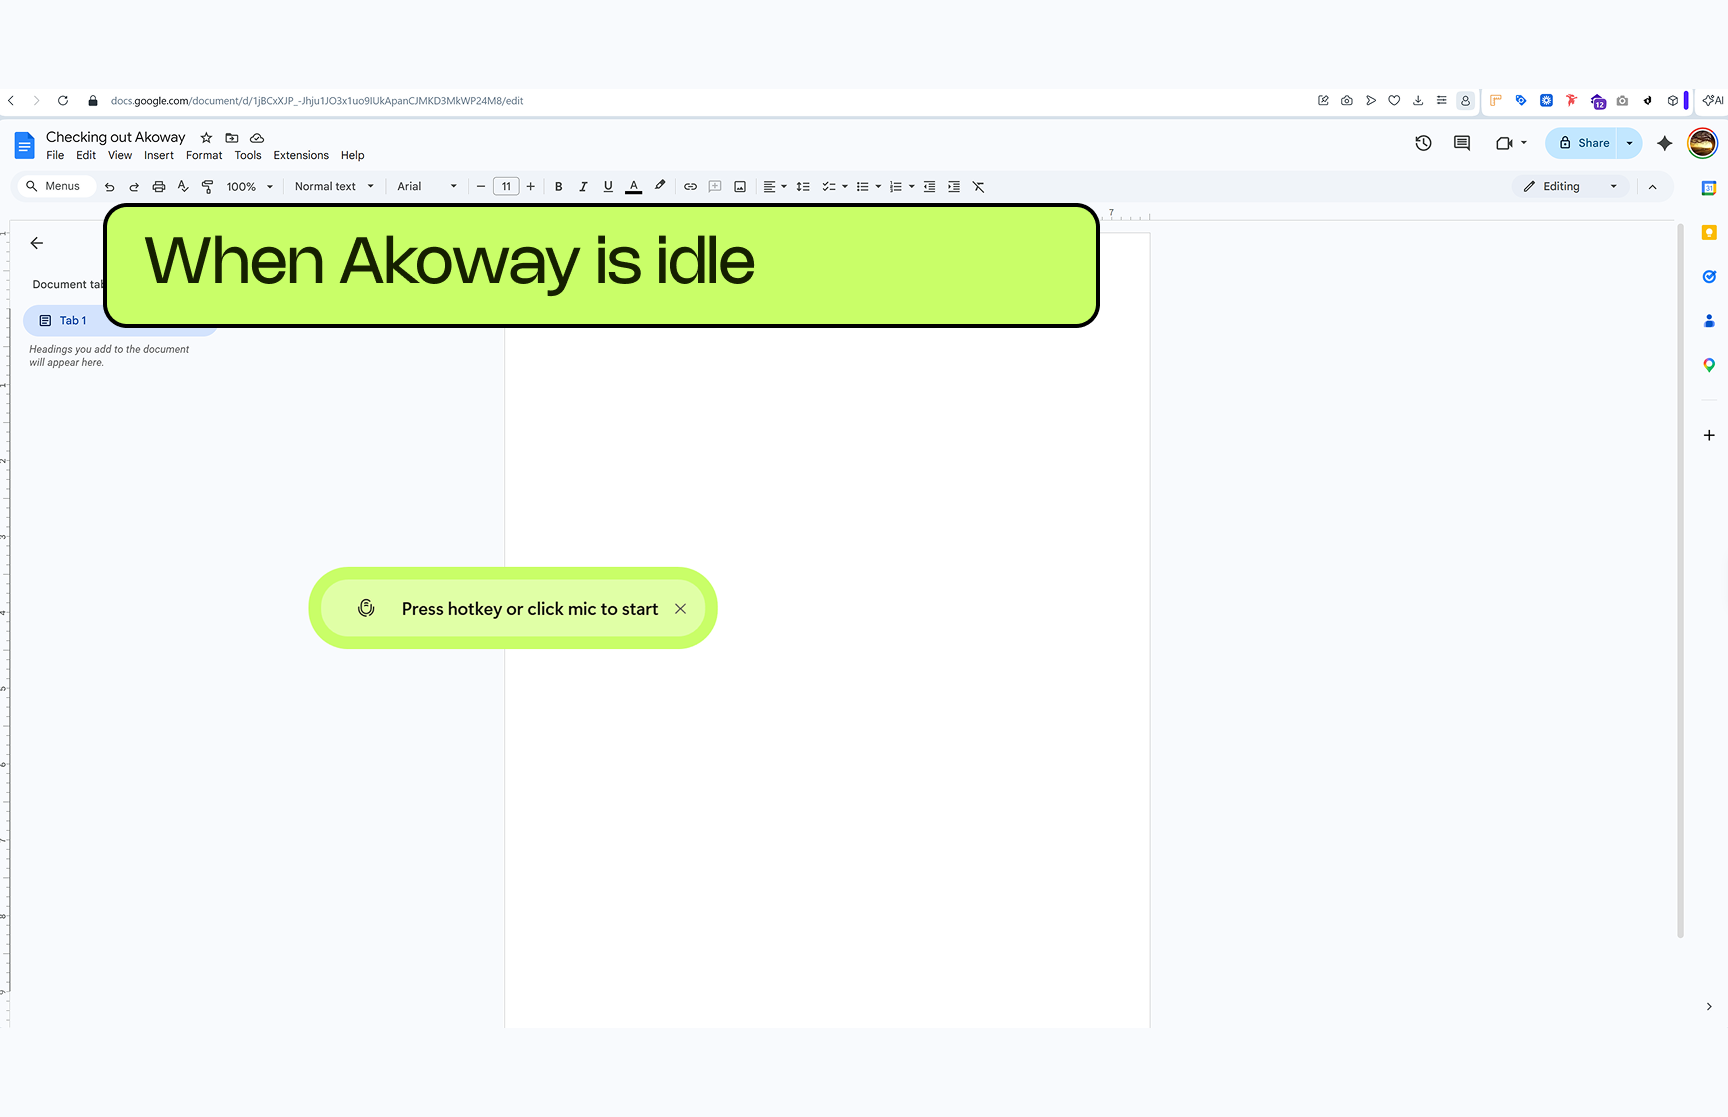
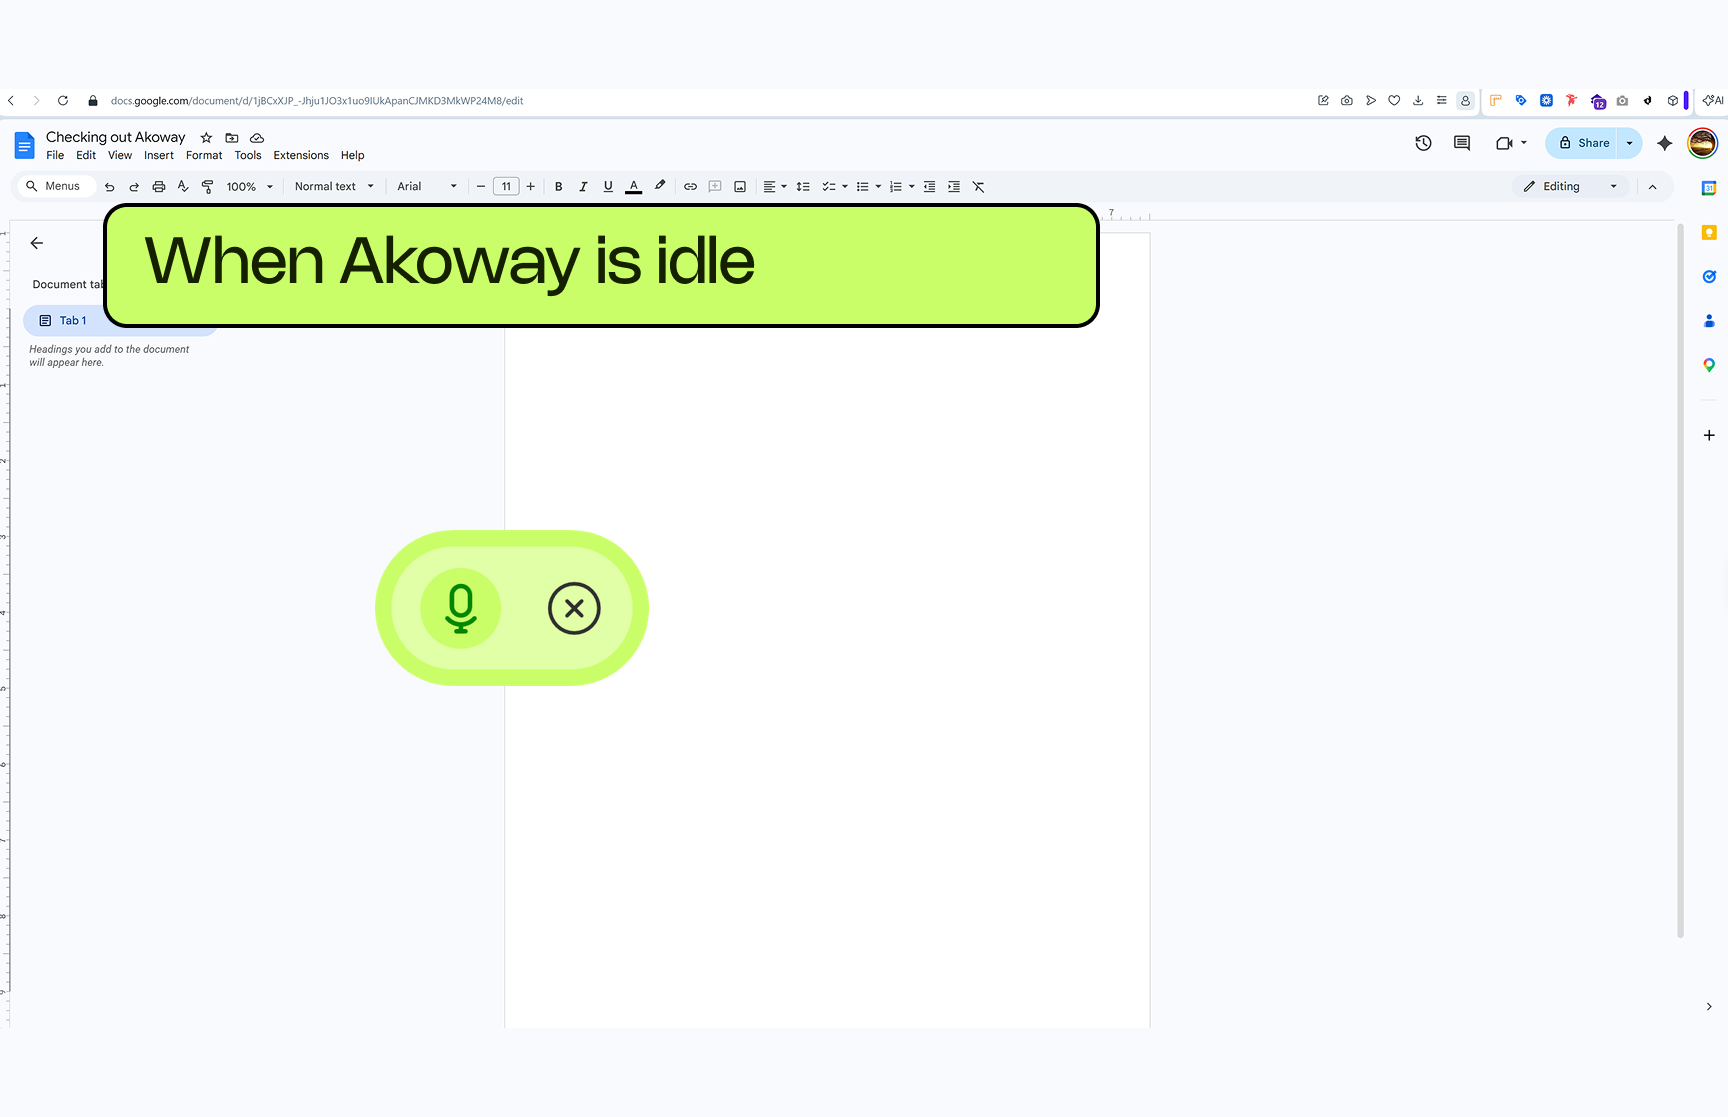
Show the new pill and Bark 3.0 Clean (Akoway 2.1)
Animated hero pill drawn from the app's overlay paths, refreshed screenshots,
and a two-model table with Bark 3.0 Clean.

Changed region(s): [[0.1562, 0.4566, 0.4375, 0.6392]]

diff --git a/index.html b/index.html
@@ -4,7 +4,7 @@
   <meta charset="UTF-8" />
   <meta name="viewport" content="width=device-width, initial-scale=1.0" />
   <title>Akoway — Offline Voice Dictation for Windows</title>
-  <meta name="description" content="Dictate text into any Windows app, offline, privately. Powered by Underdog Bark 3.0 Pro. Free and open source." />
+  <meta name="description" content="Dictate text into any Windows app, offline, privately. Powered by Underdog Bark 3.0 Pro and Bark 3.0 Clean. Free and open source." />
 
   <!-- Favicon -->
   <link rel="icon" type="image/x-icon" href="akoway.ico" />
@@ -13,7 +13,7 @@
   <!-- Fonts -->
   <link rel="preconnect" href="https://fonts.googleapis.com" />
   <link rel="preconnect" href="https://fonts.gstatic.com" crossorigin />
-  <link href="https://fonts.googleapis.com/css2?family=Inter:wght@400;500;600;700;800;900&display=swap" rel="stylesheet" />
+  <link href="https://fonts.googleapis.com/css2?family=Inter:wght@400;500;600;700;800;900&family=Instrument+Serif&display=swap" rel="stylesheet" />
 
   <style>
     *, *::before, *::after { box-sizing: border-box; margin: 0; padding: 0; }
@@ -181,17 +181,15 @@
       color: var(--muted);
     }
 
-    /* ── PILL DEMO ── */
+    /* ── PILL DEMO (same drawing and colours as the app's overlay) ── */
     .pill-demo {
       margin-top: 4rem;
-      position: relative;
-      display: inline-flex;
-      align-items: center;
-      background: var(--lime);
-      border-radius: 50px;
-      padding: 6px;
-      min-width: 360px;
-      box-shadow: 0 0 60px rgba(201,254,104,0.25), 0 0 120px rgba(201,254,104,0.1);
+      display: flex; flex-direction: column; align-items: center; gap: 1rem;
+    }
+
+    .pill-svg {
+      width: 274px; height: auto;
+      filter: drop-shadow(0 0 40px rgba(201,254,104,0.25));
       animation: float 3s ease-in-out infinite;
     }
 
@@ -200,57 +198,45 @@
       50% { transform: translateY(-8px); }
     }
 
-    .pill-inner {
-      display: flex; align-items: center; gap: 1rem;
-      background: #E0FFA6;
-      border-radius: 44px;
-      padding: 14px 24px;
-      width: 100%;
+    .p-outer, .p-circle, .p-mic path { transition: fill 0.25s; }
+    .p-outer, .p-circle { fill: #C9FE68; }
+    .p-mic path { fill: #028700; }
+    .p-dot, .p-proc, .p-write { display: none; }
+
+    .pill-demo[data-state="listening"] .p-outer,
+    .pill-demo[data-state="processing"] .p-outer,
+    .pill-demo[data-state="writing"] .p-outer { fill: #96E600; }
+    .pill-demo[data-state="listening"] .p-circle,
+    .pill-demo[data-state="processing"] .p-circle { fill: #028700; }
+    .pill-demo[data-state="writing"] .p-circle { fill: #000; }
+    .pill-demo[data-state="listening"] .p-mic path { fill: #E0FFA6; }
+    .pill-demo[data-state="listening"] .p-dot { display: inline; animation: pulse 1.1s ease-in-out infinite; }
+    .pill-demo[data-state="processing"] .p-mic,
+    .pill-demo[data-state="writing"] .p-mic { display: none; }
+    .pill-demo[data-state="processing"] .p-proc,
+    .pill-demo[data-state="writing"] .p-write { display: inline; }
+
+    .p-spin {
+      transform-box: view-box;
+      transform-origin: 125.396px 114.396px;
+      animation: spin 0.9s linear infinite;
     }
 
-    .pill-mic {
-      width: 40px; height: 40px;
-      background: var(--black);
-      border-radius: 50%;
-      display: flex; align-items: center; justify-content: center;
-      font-size: 1.2rem;
-      cursor: pointer;
-      flex-shrink: 0;
-    }
+    @keyframes pulse { 50% { opacity: 0.15; } }
+    @keyframes spin { to { transform: rotate(360deg); } }
 
-    .pill-text {
-      font-size: 0.95rem;
-      font-weight: 600;
-      color: #1a1a1a;
-      flex: 1;
+    .pill-states {
+      display: flex; gap: 1.2rem;
+      font-family: 'Instrument Serif', serif;
+      font-size: 1.15rem;
+      color: #4a5a4a;
+      list-style: none;
     }
+    .pill-states li { transition: color 0.25s; }
+    .pill-states li.on { color: var(--lime); }
 
-    .pill-bars {
-      display: flex; align-items: center; gap: 3px;
-    }
-    .pill-bars span {
-      display: block;
-      width: 3px;
-      background: #1a1a1a;
-      border-radius: 2px;
-      animation: bar 1.2s ease-in-out infinite;
-    }
-    .pill-bars span:nth-child(1) { height: 10px; animation-delay: 0s; }
-    .pill-bars span:nth-child(2) { height: 20px; animation-delay: 0.15s; }
-    .pill-bars span:nth-child(3) { height: 14px; animation-delay: 0.3s; }
-    .pill-bars span:nth-child(4) { height: 22px; animation-delay: 0.45s; }
-    .pill-bars span:nth-child(5) { height: 10px; animation-delay: 0.6s; }
-
-    @keyframes bar {
-      0%, 100% { transform: scaleY(0.4); }
-      50% { transform: scaleY(1); }
-    }
-
-    .pill-close {
-      font-size: 1rem;
-      color: #555;
-      cursor: pointer;
-      padding: 0 4px;
+    @media (prefers-reduced-motion: reduce) {
+      .pill-svg, .p-dot, .p-spin { animation: none; }
     }
 
     /* ── SECTIONS ── */
@@ -319,7 +305,7 @@
     /* ── FEATURES GRID ── */
     .features {
       display: grid;
-      grid-template-columns: repeat(auto-fit, minmax(260px, 1fr));
+      grid-template-columns: repeat(auto-fit, minmax(300px, 1fr));
       gap: 1.5rem;
       margin-top: 3.5rem;
     }
@@ -581,8 +567,7 @@
     /* ── RESPONSIVE ── */
     @media (max-width: 640px) {
       .nav-links { display: none; }
-      .pill-demo { min-width: 280px; }
-      footer { flex-direction: column; text-align: center; }
+        footer { flex-direction: column; text-align: center; }
       .footer-links { justify-content: center; }
     }
   </style>
@@ -612,7 +597,7 @@
 
     <h1>Voice dictation for Windows,<br /><span>completely offline.</span></h1>
 
-    <p>Press a hotkey, speak, click to stop — your words appear in any app. Powered by Underdog Bark 3.0 Pro. Your audio never leaves your device.</p>
+    <p>Press a hotkey, speak, click to stop — your words appear in any app. Powered by Underdog's Bark 3.0 speech models. Your audio never leaves your device.</p>
 
     <div class="hero-buttons">
       <a href="https://github.com/codingSalafi/Akoway/releases/latest/download/Akoway-Setup.exe" class="btn-primary">
@@ -625,16 +610,23 @@
 
     <p class="hero-note">Windows 10 / 11 · Free forever · ~55 MB</p>
 
-    <!-- Animated pill demo -->
-    <div class="pill-demo">
-      <div class="pill-inner">
-        <div class="pill-mic">🎙</div>
-        <div class="pill-text">Listening…</div>
-        <div class="pill-bars">
-          <span></span><span></span><span></span><span></span><span></span>
-        </div>
-        <div class="pill-close">✕</div>
-      </div>
+    <!-- Animated pill demo: cycles through the overlay's states -->
+    <div class="pill-demo" data-state="idle">
+      <svg class="pill-svg" viewBox="0 0 400 227" aria-hidden="true">
+        <rect class="p-outer" width="400" height="227" rx="113.5"/>
+        <rect fill="#E0FFA6" x="24" y="24" width="352" height="179" rx="89.5"/>
+        <circle class="p-circle" cx="125" cy="114" r="59"/>
+        <g class="p-mic"><path transform="translate(112.1969 81.3982)" d="M13.1991 0 L13.1991 3.29978 C18.6664 3.29978 23.0984 7.73186 23.0984 13.1991 L26.3982 13.1991 L29.698 13.1991 C29.698 4.08702 22.3112 -3.29978 13.1991 -3.29978 L13.1991 0 Z M26.3982 13.1991 L23.0984 13.1991 L23.0984 29.698 L26.3982 29.698 L29.698 29.698 L29.698 13.1991 L26.3982 13.1991 Z M26.3982 29.698 L23.0984 29.698 C23.0984 35.1652 18.6664 39.5973 13.1991 39.5973 L13.1991 42.8971 L13.1991 46.1969 C22.3112 46.1969 29.698 38.8101 29.698 29.698 L26.3982 29.698 Z M13.1991 42.8971 L13.1991 39.5973 C7.73186 39.5973 3.29978 35.1652 3.29978 29.698 L0 29.698 L-3.29978 29.698 C-3.29978 38.8101 4.08702 46.1969 13.1991 46.1969 L13.1991 42.8971 Z M0 29.698 L3.29978 29.698 L3.29978 13.1991 L0 13.1991 L-3.29978 13.1991 L-3.29978 29.698 L0 29.698 Z M0 13.1991 L3.29978 13.1991 C3.29978 7.73186 7.73186 3.29978 13.1991 3.29978 L13.1991 0 L13.1991 -3.29978 C4.08702 -3.29978 -3.29978 4.08702 -3.29978 13.1991 L0 13.1991 Z"/><path transform="translate(105.5973 128.5586)" d="M42.0744 2.18 C43.2784 0.811925 43.1454 -1.27314 41.7773 -2.47712 C40.4092 -3.6811 38.3242 -3.54808 37.1202 -2.18 L39.5973 0 L42.0744 2.18 Z M19.7987 8.93579 L19.8026 5.63601 L19.7947 5.63602 L19.7987 8.93579 Z M2.47712 -2.18 C1.27314 -3.54808 -0.811925 -3.6811 -2.18 -2.47712 C-3.54808 -1.27314 -3.6811 0.811925 -2.47712 2.18 L0 0 L2.47712 -2.18 Z M16.4989 18.8351 C16.4989 20.6575 17.9762 22.1349 19.7987 22.1349 C21.6211 22.1349 23.0984 20.6575 23.0984 18.8351 L19.7987 18.8351 L16.4989 18.8351 Z M13.1991 15.5353 C11.3767 15.5353 9.89933 17.0127 9.89933 18.8351 C9.89933 20.6575 11.3767 22.1349 13.1991 22.1349 L13.1991 18.8351 L13.1991 15.5353 Z M26.3982 22.1349 C28.2206 22.1349 29.698 20.6575 29.698 18.8351 C29.698 17.0127 28.2206 15.5353 26.3982 15.5353 L26.3982 18.8351 L26.3982 22.1349 Z M39.5973 0 L37.1202 -2.18 C34.9556 0.279583 32.2912 2.24905 29.3049 3.59688 L30.6623 6.60452 L32.0198 9.61215 C35.8618 7.87812 39.2896 5.34434 42.0744 2.18 L39.5973 0 Z M30.6623 6.60452 L29.3049 3.59688 C26.3185 4.94472 23.079 5.63991 19.8026 5.63602 L19.7987 8.93579 L19.7947 12.2356 C24.01 12.2406 28.1777 11.3462 32.0198 9.61215 L30.6623 6.60452 Z M19.7987 8.93579 L19.7947 5.63602 C16.5183 5.63991 13.2788 4.94472 10.2924 3.59688 L8.935 6.60452 L7.57755 9.61215 C11.4196 11.3462 15.5874 12.2406 19.8026 12.2356 L19.7987 8.93579 Z M8.935 6.60452 L10.2924 3.59688 C7.3061 2.24905 4.64169 0.279583 2.47712 -2.18 L0 0 L-2.47712 2.18 C0.307669 5.34434 3.73552 7.87812 7.57755 9.61215 L8.935 6.60452 Z M19.7987 8.93579 L16.4989 8.93579 L16.4989 18.8351 L19.7987 18.8351 L23.0984 18.8351 L23.0984 8.93579 L19.7987 8.93579 Z M13.1991 18.8351 L13.1991 22.1349 L26.3982 22.1349 L26.3982 18.8351 L26.3982 15.5353 L13.1991 15.5353 L13.1991 18.8351 Z"/><circle class="p-dot" cx="140" cy="84" r="9" fill="#E53935"/></g>
+        <g class="p-proc" fill="#E0FFA6"><g opacity="0.5"><path transform="translate(92.3982 81.3982)" d="M32.9978 0 C26.4714 -1.4654e-15 20.0917 1.93529 14.6652 5.56113 C9.23875 9.18697 5.00934 14.3405 2.51182 20.3701 C0.0142974 26.3996 -0.639168 33.0344 0.634058 39.4353 C1.90728 45.8362 5.05002 51.7159 9.66484 56.3307 C14.2797 60.9455 20.1593 64.0883 26.5602 65.3615 C32.9612 66.6347 39.5959 65.9812 45.6255 63.4837 C51.655 60.9862 56.8086 56.7568 60.4344 51.3303 C64.0602 45.9039 65.9955 39.5241 65.9955 32.9978 C65.9955 28.6644 65.142 24.3735 63.4837 20.3701 C61.8254 16.3666 59.3948 12.7289 56.3307 9.66482 C53.2666 6.6007 49.629 4.1701 45.6255 2.51181 C41.622 0.853513 37.3311 4.39619e-15 32.9978 0 Z M32.9978 59.396 C27.7767 59.396 22.6729 57.8477 18.3317 54.9471 C13.9906 52.0464 10.607 47.9236 8.60901 43.0999 C6.61099 38.2763 6.08822 32.9685 7.1068 27.8477 C8.12538 22.727 10.6396 18.0233 14.3314 14.3314 C18.0233 10.6396 22.727 8.12537 27.8477 7.10679 C32.9685 6.08821 38.2763 6.61098 43.0999 8.609 C47.9236 10.607 52.0464 13.9905 54.9471 18.3317 C57.8478 22.6729 59.396 27.7767 59.396 32.9978 C59.396 39.999 56.6148 46.7135 51.6641 51.6641 C46.7135 56.6147 39.999 59.396 32.9978 59.396 Z"/></g><g class="p-spin"><path transform="translate(125.396 81.3982)" d="M26.3982 32.9978 L32.9978 32.9978 C32.9978 28.6644 32.1443 24.3735 30.486 20.3701 C28.8277 16.3666 26.3971 12.7289 23.3329 9.66482 C20.2688 6.6007 16.6312 4.1701 12.6277 2.51181 C8.62423 0.853513 4.33333 4.39619e-15 0 0 L0 6.59955 C7.00124 6.59955 13.7157 9.38079 18.6664 14.3314 C23.617 19.282 26.3982 25.9965 26.3982 32.9978 Z"/></g></g>
+        <g class="p-write" fill="#E0FFA6"><path transform="translate(105.1465 86.0179)" d="M3.46477 26.0682 L1.36292 24.7617 L1.35918 24.7677 L3.46477 26.0682 Z M7.25951 19.9636 L9.36136 21.2702 L9.36509 21.2642 L7.25951 19.9636 Z M10.7243 14.354 L10.7243 11.8792 L9.34401 11.8792 L8.61869 13.0535 L10.7243 14.354 Z M28.0481 14.354 L29.7981 12.6041 L29.0732 11.8792 L28.0481 11.8792 L28.0481 14.354 Z M38.7724 25.0783 L41.2472 25.0783 L41.2472 24.0532 L40.5223 23.3283 L38.7724 25.0783 Z M38.7724 45.7019 L38.7724 48.1767 L41.2472 48.1767 L41.2472 45.7019 L38.7724 45.7019 Z M13.1991 45.7019 L11.3944 47.3954 L12.1276 48.1767 L13.1991 48.1767 L13.1991 45.7019 Z M8.67841 40.8842 L10.4831 39.1907 L10.475 39.1822 L8.67841 40.8842 Z M4.52069 36.4955 L2.71596 38.189 L2.72408 38.1976 L4.52069 36.4955 Z M0 31.6779 L-2.10558 30.3773 L-3.10133 31.9895 L-1.80471 33.3713 L0 31.6779 Z M19.7987 21.7785 L17.3238 21.7785 L17.3238 26.7282 L19.7987 26.7282 L19.7987 24.2534 L19.7987 21.7785 Z M30.5229 26.7282 L32.9978 26.7282 L32.9978 21.7785 L30.5229 21.7785 L30.5229 24.2534 L30.5229 26.7282 Z M18.9737 30.8529 L16.4989 30.8529 L16.4989 35.8026 L18.9737 35.8026 L18.9737 33.3277 L18.9737 30.8529 Z M30.5229 35.8026 L32.9978 35.8026 L32.9978 30.8529 L30.5229 30.8529 L30.5229 33.3277 L30.5229 35.8026 Z M32.3373 1.29109 L33.6284 -0.820279 L29.4057 -3.40246 L28.1146 -1.29109 L30.226 0 L32.3373 1.29109 Z M19.3372 13.0629 L18.0461 15.1743 L22.2688 17.7565 L23.5599 15.6451 L21.4485 14.354 L19.3372 13.0629 Z M8.71202 39.8967 L10.0013 37.7842 L5.77639 35.2056 L4.48709 37.3181 L6.59955 38.6074 L8.71202 39.8967 Z M0.197379 44.3466 L-1.09192 46.4591 L3.13301 49.0377 L4.42231 46.9252 L2.30984 45.6359 L0.197379 44.3466 Z M3.46477 26.0682 L5.56661 27.3748 L9.36135 21.2702 L7.25951 19.9636 L5.15767 18.6571 L1.36293 24.7617 L3.46477 26.0682 Z M7.25951 19.9636 L9.36509 21.2642 L12.8299 15.6545 L10.7243 14.354 L8.61869 13.0535 L5.15393 18.6631 L7.25951 19.9636 Z M10.7243 14.354 L10.7243 16.8289 L28.0481 16.8289 L28.0481 14.354 L28.0481 11.8792 L10.7243 11.8792 L10.7243 14.354 Z M28.0481 14.354 L26.2981 16.104 L30.9508 20.7567 L32.7008 19.0067 L34.4508 17.2567 L29.7981 12.6041 L28.0481 14.354 Z M32.7008 19.0067 L30.9508 20.7567 L32.3697 22.1756 L34.1197 20.4256 L35.8697 18.6756 L34.4508 17.2567 L32.7008 19.0067 Z M34.1197 20.4256 L32.3697 22.1756 L37.0224 26.8283 L38.7724 25.0783 L40.5223 23.3283 L35.8697 18.6756 L34.1197 20.4256 Z M38.7724 25.0783 L36.2975 25.0783 L36.2975 45.7019 L38.7724 45.7019 L41.2472 45.7019 L41.2472 25.0783 L38.7724 25.0783 Z M38.7724 45.7019 L38.7724 43.2271 L13.1991 43.2271 L13.1991 45.7019 L13.1991 48.1767 L38.7724 48.1767 L38.7724 45.7019 Z M13.1991 45.7019 L15.0038 44.0084 L10.4831 39.1908 L8.67841 40.8842 L6.8737 42.5777 L11.3944 47.3954 L13.1991 45.7019 Z M8.67841 40.8842 L10.475 39.1822 L6.3173 34.7935 L4.52069 36.4955 L2.72408 38.1976 L6.8818 42.5863 L8.67841 40.8842 Z M4.52069 36.4955 L6.3254 34.8021 L1.80471 29.9844 L0 31.6779 L-1.80471 33.3713 L2.71598 38.189 L4.52069 36.4955 Z M0 31.6779 L2.10558 32.9784 L5.57035 27.3687 L3.46477 26.0682 L1.35918 24.7677 L-2.10558 30.3773 L0 31.6779 Z M19.7987 24.2534 L19.7987 26.7282 L30.5229 26.7282 L30.5229 24.2534 L30.5229 21.7785 L19.7987 21.7785 L19.7987 24.2534 Z M18.9737 33.3277 L18.9737 35.8026 L30.5229 35.8026 L30.5229 33.3277 L30.5229 30.8529 L18.9737 30.8529 L18.9737 33.3277 Z M30.226 0 L28.1146 -1.29109 L19.3372 13.0629 L21.4485 14.354 L23.5599 15.6451 L32.3373 1.29109 L30.226 0 Z M6.59955 38.6074 L4.48709 37.3181 L0.197379 44.3466 L2.30984 45.6359 L4.42231 46.9252 L8.71202 39.8967 L6.59955 38.6074 Z"/><path transform="translate(101.8467 140.7942)" d="M0 -3.29978 L-3.29978 -3.29978 L-3.29978 3.29978 L0 3.29978 L0 0 L0 -3.29978 Z M0.0329985 3.29978 L3.33277 3.29978 L3.33277 -3.29978 L0.0329985 -3.29978 L0.0329985 0 L0.0329985 3.29978 Z M0 0 L0 3.29978 L0.0329985 3.29978 L0.0329985 0 L0.0329985 -3.29978 L0 -3.29978 L0 0 Z"/><path transform="translate(114.2209 140.7942)" d="M0 -2.47483 L-2.47483 -2.47483 L-2.47483 2.47483 L0 2.47483 L0 0 L0 -2.47483 Z M28.873 2.47483 L31.3479 2.47483 L31.3479 -2.47483 L28.873 -2.47483 L28.873 0 L28.873 2.47483 Z M0 0 L0 2.47483 L28.873 2.47483 L28.873 0 L28.873 -2.47483 L0 -2.47483 L0 0 Z"/></g>
+        <g fill="#2E2E2E" transform="translate(248 71)"><path transform="translate(7.1667 7.1667)" d="M44.683 48.4837 C45.7325 49.5332 47.4341 49.5332 48.4837 48.4837 C49.5332 47.4341 49.5332 45.7325 48.4837 44.683 L46.5833 46.5833 L44.683 48.4837 Z M26.9837 23.183 C25.9341 22.1334 24.2325 22.1334 23.183 23.183 C22.1334 24.2325 22.1334 25.9341 23.183 26.9837 L25.0833 25.0833 L26.9837 23.183 Z M23.183 44.683 C22.1334 45.7325 22.1334 47.4341 23.183 48.4837 C24.2325 49.5332 25.9341 49.5332 26.9837 48.4837 L25.0833 46.5833 L23.183 44.683 Z M48.4837 26.9837 C49.5332 25.9341 49.5332 24.2325 48.4837 23.183 C47.4341 22.1334 45.7325 22.1334 44.683 23.183 L46.5833 25.0833 L48.4837 26.9837 Z M71.6667 35.8333 L74.3542 35.8333 C74.3542 14.5583 57.1083 -2.6875 35.8333 -2.6875 L35.8333 0 L35.8333 2.6875 C54.1398 2.6875 68.9792 17.5268 68.9792 35.8333 L71.6667 35.8333 Z M35.8333 0 L35.8333 -2.6875 C14.5583 -2.6875 -2.6875 14.5583 -2.6875 35.8333 L0 35.8333 L2.6875 35.8333 C2.6875 17.5268 17.5268 2.6875 35.8333 2.6875 L35.8333 0 Z M0 35.8333 L-2.6875 35.8333 C-2.6875 57.1083 14.5583 74.3542 35.8333 74.3542 L35.8333 71.6667 L35.8333 68.9792 C17.5268 68.9792 2.6875 54.1398 2.6875 35.8333 L0 35.8333 Z M35.8333 71.6667 L35.8333 74.3542 C57.1083 74.3542 74.3542 57.1083 74.3542 35.8333 L71.6667 35.8333 L68.9792 35.8333 C68.9792 54.1398 54.1398 68.9792 35.8333 68.9792 L35.8333 71.6667 Z M46.5833 46.5833 L48.4837 44.683 L26.9837 23.183 L25.0833 25.0833 L23.183 26.9837 L44.683 48.4837 L46.5833 46.5833 Z M25.0833 46.5833 L26.9837 48.4837 L48.4837 26.9837 L46.5833 25.0833 L44.683 23.183 L23.183 44.683 L25.0833 46.5833 Z"/></g>
+      </svg>
+      <ul class="pill-states">
+        <li data-for="idle" class="on">Ready</li>
+        <li data-for="listening">Listening</li>
+        <li data-for="processing">Processing</li>
+        <li data-for="writing">Writing</li>
+      </ul>
     </div>
   </section>
 
@@ -695,8 +687,8 @@
     <div class="steps">
       <div class="step">
         <div class="step-num">1</div>
-        <h3>Install &amp; download the model</h3>
-        <p>Run the installer. On first launch, Akoway downloads its speech model (about 910 MB) — once, in a few minutes.</p>
+        <h3>Install &amp; pick a model</h3>
+        <p>Run the installer. On first launch, pick a speech model — Bark 3.0 Pro (910 MB) or Bark 3.0 Clean (240 MB) — and Akoway downloads it once.</p>
       </div>
       <div class="step">
         <div class="step-num">2</div>
@@ -748,9 +740,14 @@
         <p>One of the most accurate open speech models available, with punctuation and capitals added for you.</p>
       </div>
       <div class="feature">
+        <div class="feature-icon">✨</div>
+        <h3>Clean Transcripts</h3>
+        <p>Prefer tidy text? Bark 3.0 Clean drops “um”, “uh”, false starts and repeated words as you speak.</p>
+      </div>
+      <div class="feature">
         <div class="feature-icon">🚀</div>
         <h3>Fast on Any CPU</h3>
-        <p>About 0.6 seconds to transcribe 10 seconds of speech on a laptop CPU. No GPU or drivers needed.</p>
+        <p>Bark 3.0 Pro turns 10 seconds of speech into text in about 0.6 seconds on a laptop CPU. No GPU or drivers needed.</p>
       </div>
       <div class="feature">
         <div class="feature-icon">🔧</div>
@@ -768,9 +765,9 @@
   <!-- MODELS -->
   <section id="models">
     <div style="text-align: center;">
-      <div class="section-label">Speech Model</div>
-      <h2 class="section-title">One accurate model, no choices to make</h2>
-      <p class="section-sub" style="margin: 0 auto 0;">Downloaded on first launch — nothing bundled in the installer.</p>
+      <div class="section-label">Speech Models</div>
+      <h2 class="section-title">Two models: word for word, or cleaned up</h2>
+      <p class="section-sub" style="margin: 0 auto 0;">Pick one on first launch and switch any time in Settings. Both are open models by Underdog, downloaded once — nothing bundled in the installer.</p>
     </div>
 
     <table class="models-table">
@@ -784,10 +781,16 @@
       </thead>
       <tbody>
         <tr class="recommended">
-          <td><a href="https://huggingface.co/ConwayResearch/Underdog-Bark-3.0-Pro" target="_blank" rel="noopener" style="color:inherit;">Bark 3.0 Pro</a> <span class="tag">by Underdog</span></td>
+          <td><a href="https://huggingface.co/ConwayResearch/Underdog-Bark-3.0-Pro" target="_blank" rel="noopener" style="color:inherit;">Bark 3.0 Pro</a> <span class="tag">Default</span></td>
           <td style="white-space:nowrap;">910 MB</td>
           <td>~15× faster than real time</td>
-          <td>English, with punctuation &amp; capitals</td>
+          <td>Most accurate. Writes exactly what you say, with punctuation &amp; capitals</td>
+        </tr>
+        <tr>
+          <td><a href="https://huggingface.co/ConwayResearch/Underdog-Bark-3.0-Clean" target="_blank" rel="noopener" style="color:inherit;">Bark 3.0 Clean</a></td>
+          <td style="white-space:nowrap;">240 MB</td>
+          <td>~4× faster than real time</td>
+          <td>Removes ums, repeats and false starts as it writes</td>
         </tr>
       </tbody>
     </table>
@@ -851,5 +854,28 @@
     </div>
   </footer>
 
+  <script>
+    // Hero pill: Ready → Listening → Processing → Writing, like a real dictation
+    (function () {
+      var demo = document.querySelector('.pill-demo');
+      if (!demo || window.matchMedia('(prefers-reduced-motion: reduce)').matches) {
+        if (demo) setState('listening');
+        return;
+      }
+      var steps = [['idle', 1800], ['listening', 3200], ['processing', 1400], ['writing', 1200]];
+      var i = 0;
+      function setState(state) {
+        demo.dataset.state = state;
+        demo.querySelectorAll('.pill-states li').forEach(function (li) {
+          li.classList.toggle('on', li.dataset.for === state);
+        });
+      }
+      (function next() {
+        setState(steps[i][0]);
+        setTimeout(next, steps[i][1]);
+        i = (i + 1) % steps.length;
+      })();
+    })();
+  </script>
 </body>
 </html>
